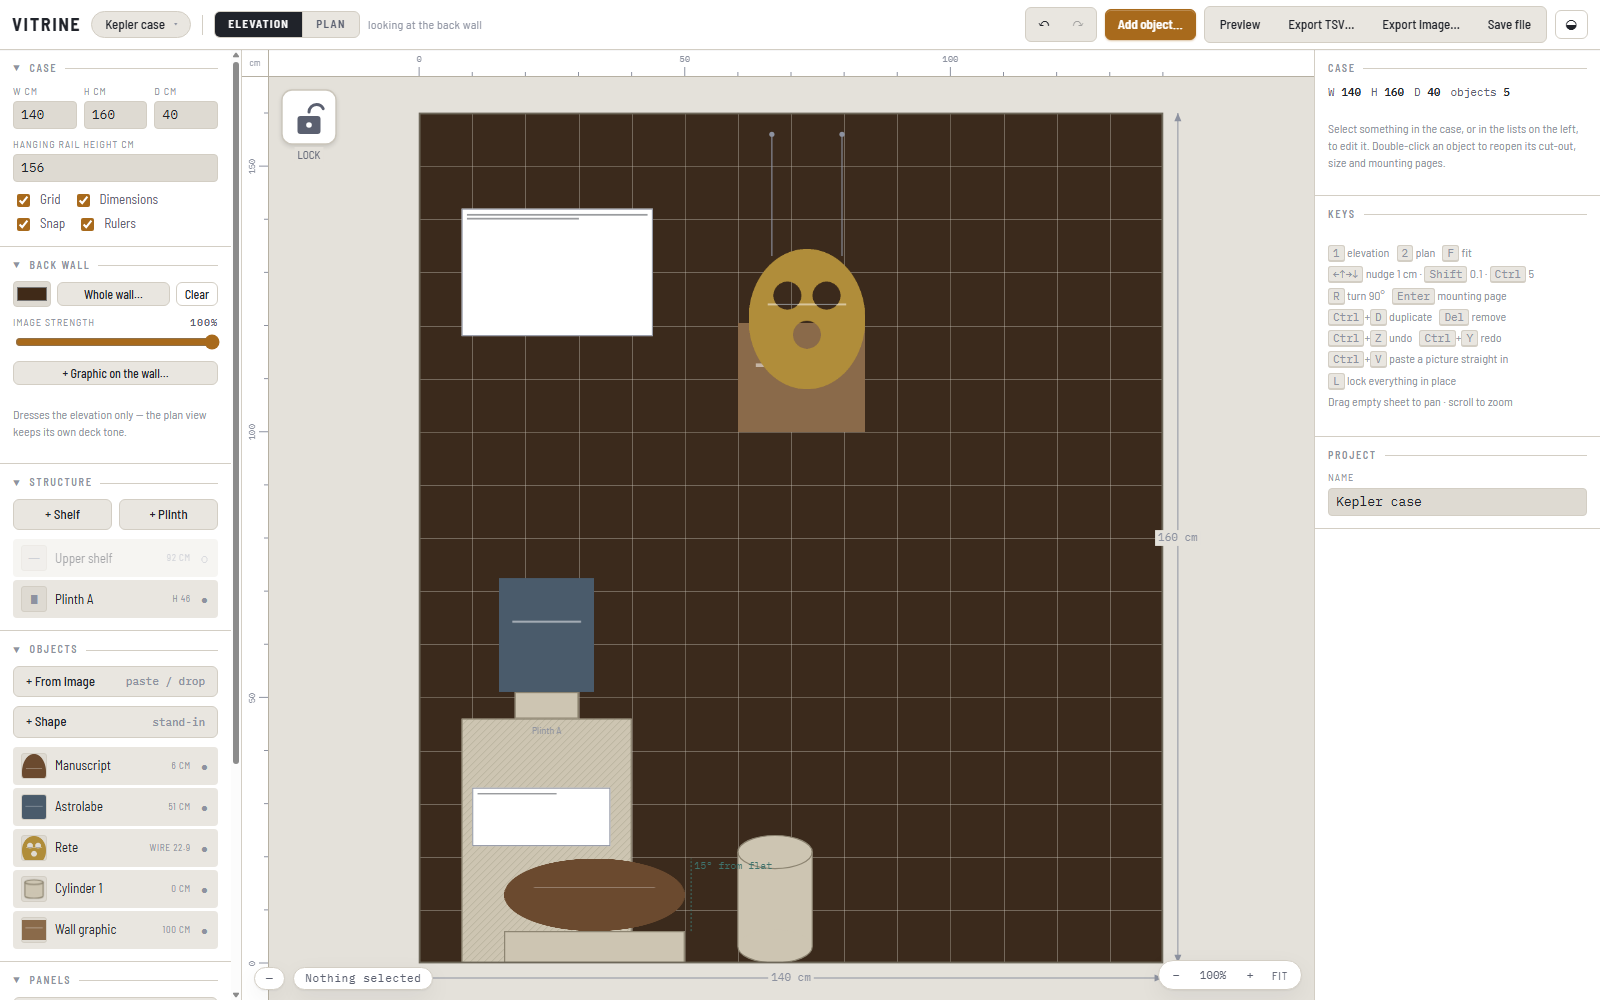
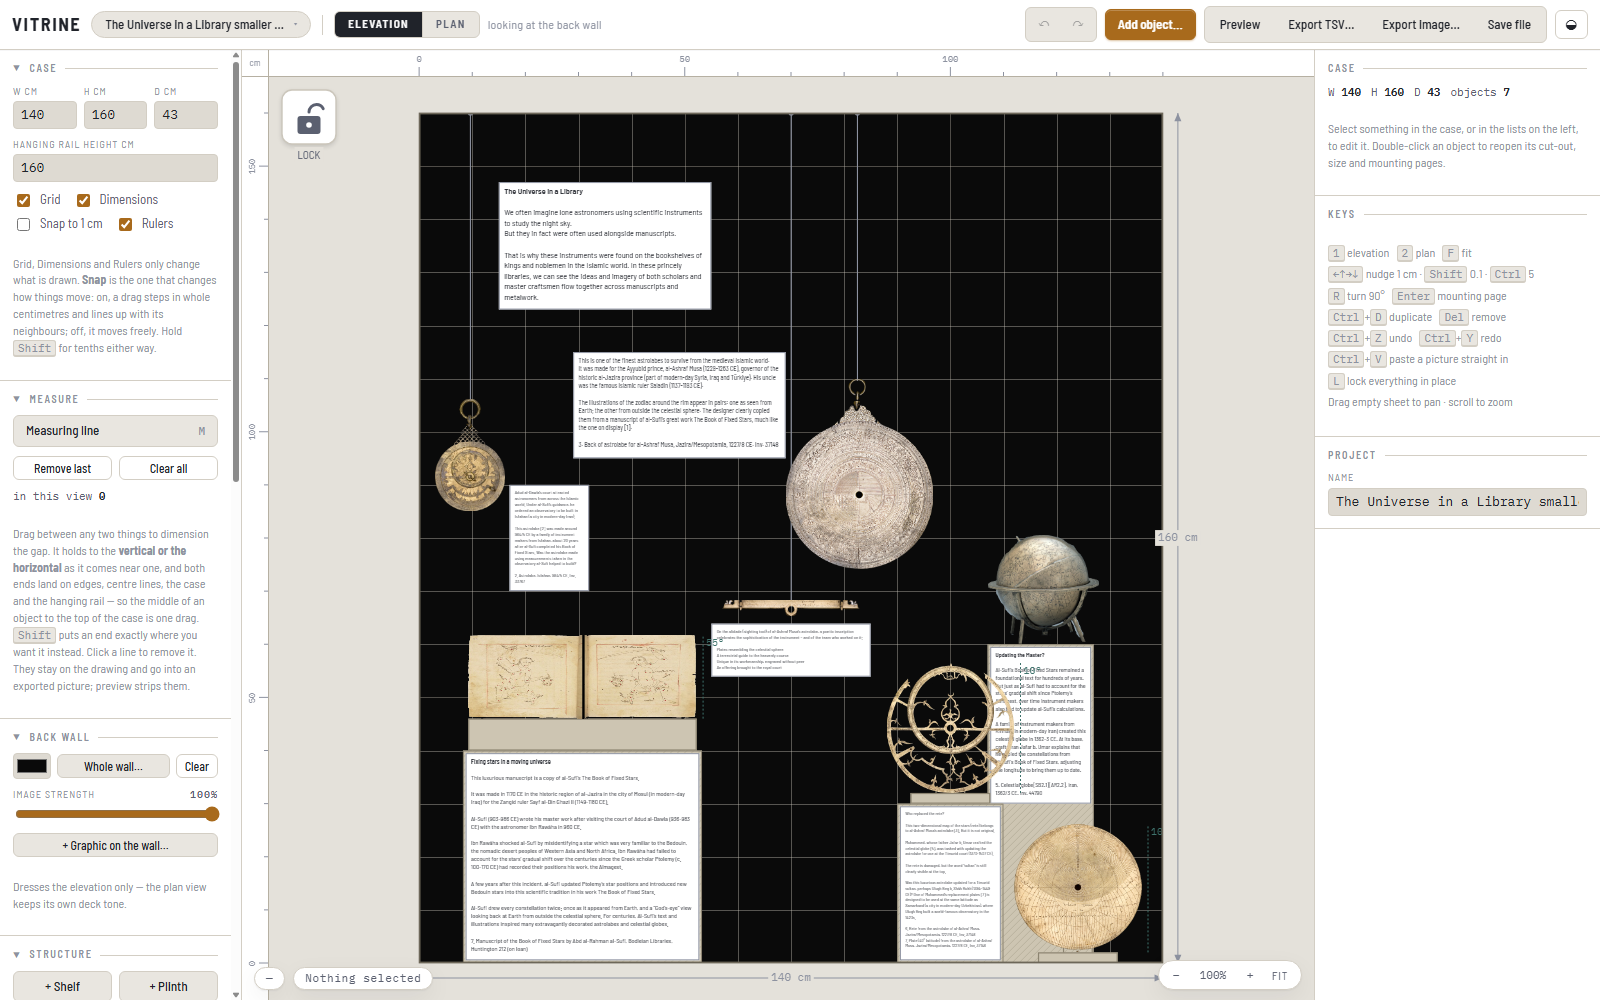
Real screenshots, and the charset the app never declared
The documentation showed a scratch case of coloured blobs. It now shows
The Universe in a Library: real astrolabes, a celestial globe, the Book
of Fixed Stars, and the interpretation panels as written. Nothing about
the case was altered for the pictures except the lock, which is a
working state rather than content and otherwise fills the inspector with
its banner in every shot.

The plan is shot in a shorter window, since a 140 x 43 case is a shallow
band that left most of a tall frame empty, and preview is zoomed out
enough to clear its own toolbar. The library shows the owner's two real
cases rather than three invented names, and the cut-out step, which had
been sitting in docs/images unreferenced, now appears in the README
where the cut-out is described.

Taking them turned up a real bug: index.html had no meta charset, so the
encoding was sniffed rather than declared, and one run came out in a
Latin-1 fallback with every non-ASCII character mojibaked - the fold
chevrons as "A-1/4", and the same would go for the degree signs, the
multiplication signs and the dashes. Intermittent, content-dependent,
and exactly the kind of thing that would reach whoever you sent the file
to rather than you. Declared now.

Still outstanding, and not changed here: there is no doctype either, so
the app renders in quirks mode. Adding one is a real change to how the
CSS is interpreted and wants looking at rather than slipping into a
screenshot commit.

diff --git a/_shell.html b/_shell.html
@@ -1,3 +1,4 @@
+<meta charset="utf-8">
 <title>Vitrine</title>
 <link rel="preconnect" href="https://fonts.googleapis.com">
 <link rel="preconnect" href="https://fonts.gstatic.com" crossorigin>

diff --git a/index.html b/index.html
@@ -1,3 +1,4 @@
+<meta charset="utf-8">
 <title>Vitrine</title>
 <link rel="preconnect" href="https://fonts.googleapis.com">
 <link rel="preconnect" href="https://fonts.gstatic.com" crossorigin>

diff --git a/README.md b/README.md
@@ -29,6 +29,8 @@ wand, erase and restore brushes and zoom for fine work. Two passes are
 offered: *from edges* for solid objects, and *everywhere*, which keys a colour out of
 the whole picture and is what openwork like an astrolabe rete needs.
 
+![Cutting an object out of its photograph](docs/images/wiz.png)
+
 **Scale comes from one measurement.** Type the real width or the real height and the
 other follows from the picture. Or drag a line across something you know the length
 of and give that. Depth you type, because a flat photograph cannot tell you.
